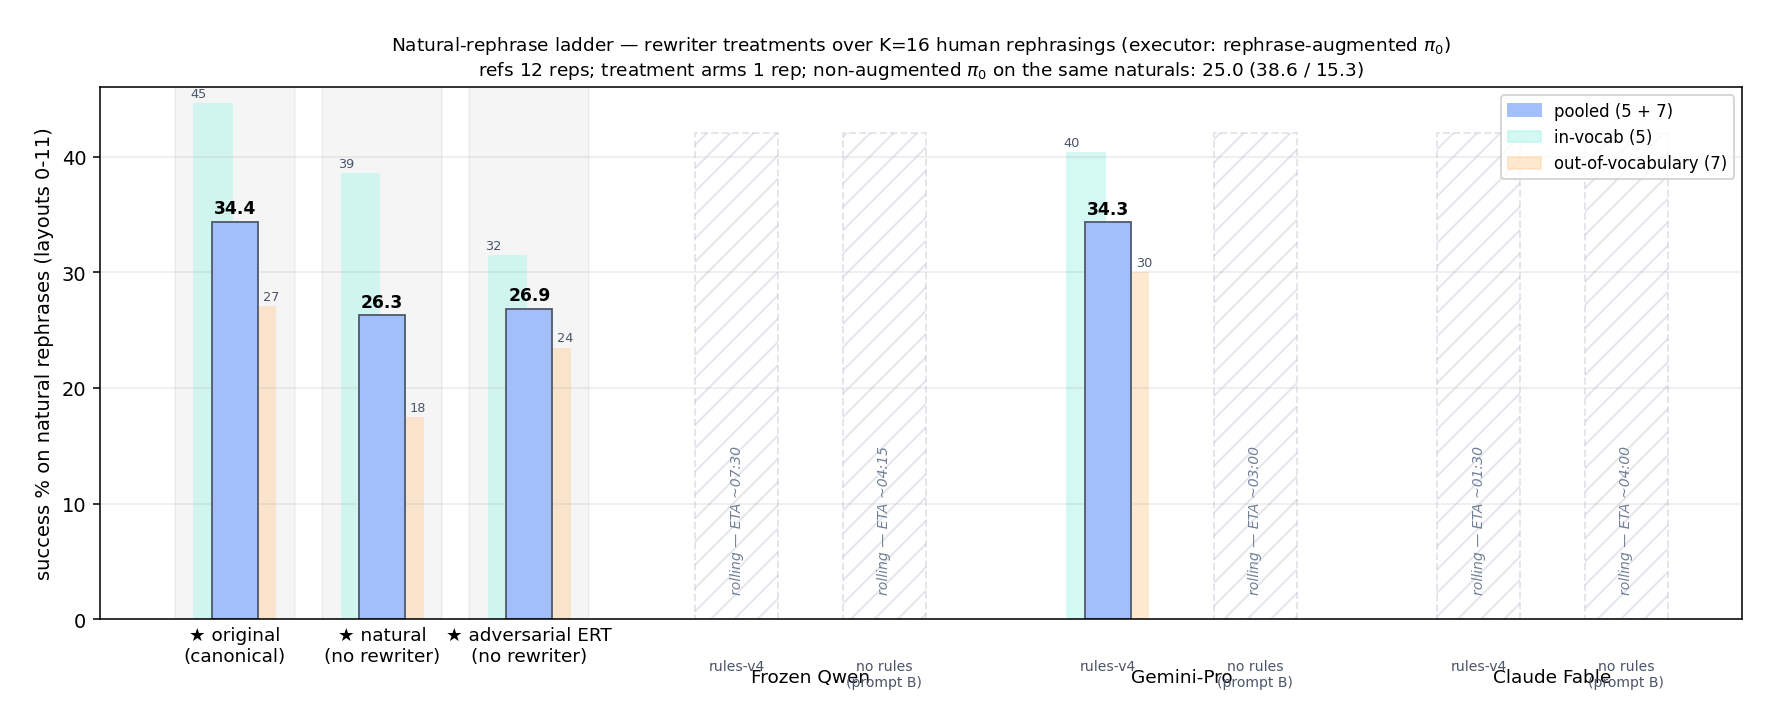
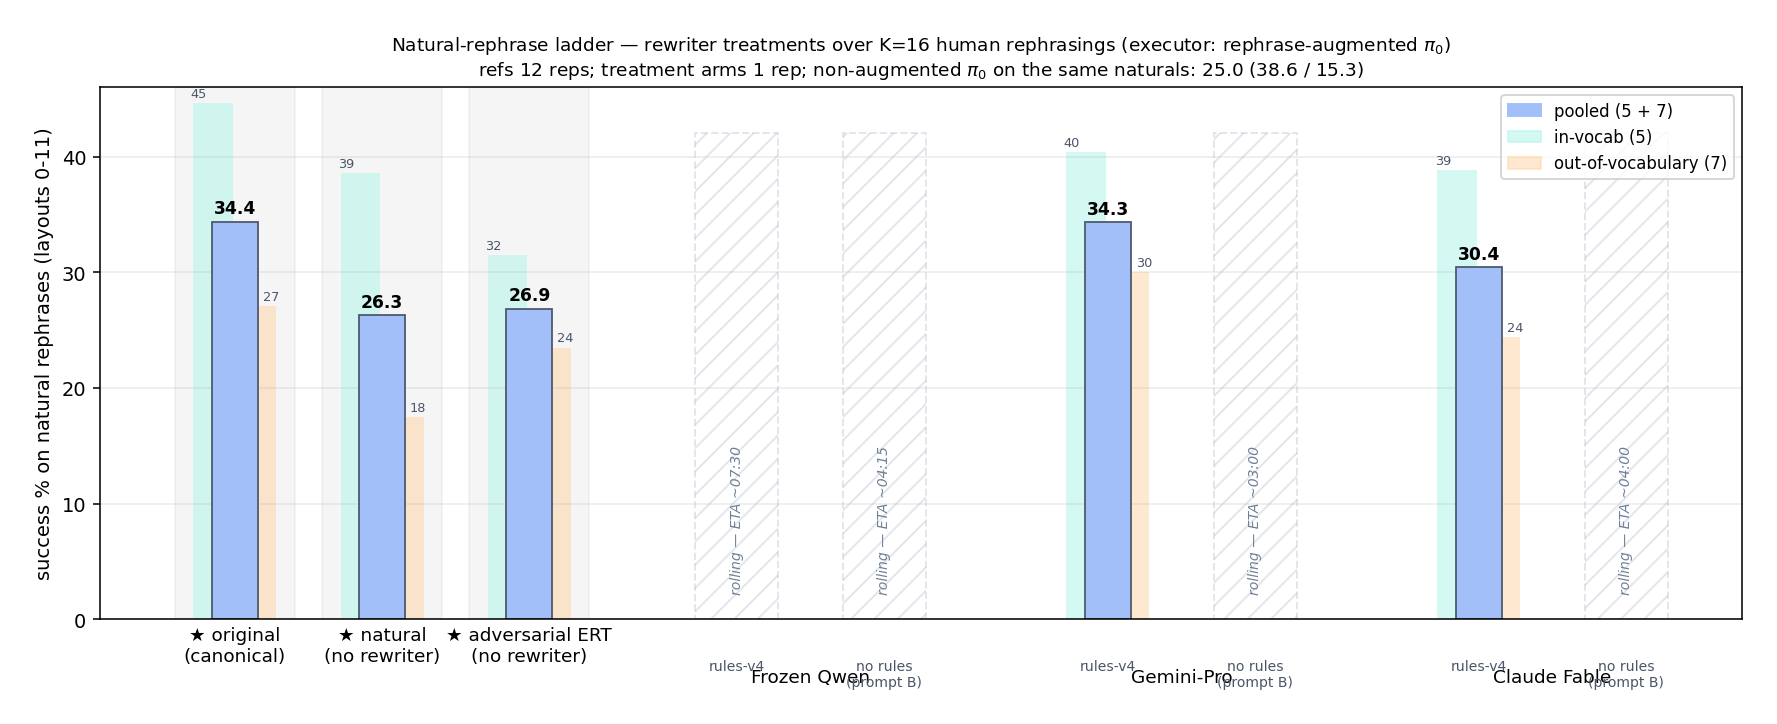
natural ladder: Claude rules-v4 lands 30.43 — Amendment 23 prediction refuted (half-repair vs Gemini's 99%)

Changed region(s): [[0.8047, 0.1823, 0.8666, 0.8812]]

diff --git a/scripts/make_natural_ladder.py b/scripts/make_natural_ladder.py
@@ -19,13 +19,12 @@ ROLES = ["rules-v4", "no rules (prompt B)"]
 MODELS = {
     "Frozen Qwen":  [None, None],
     "Gemini-Pro":   [(34.33, 40.4, 30.0), None],
-    "Claude Fable": [None, None],
+    "Claude Fable": [(30.43, 38.8, 24.4), None],
 }
 PENDING = {
     ("Frozen Qwen", 0): "rolling — ETA ~07:30",
     ("Frozen Qwen", 1): "rolling — ETA ~04:15",
     ("Gemini-Pro", 1): "rolling — ETA ~03:00",
-    ("Claude Fable", 0): "rolling — ETA ~01:30",
     ("Claude Fable", 1): "rolling — ETA ~04:00",
 }
 
